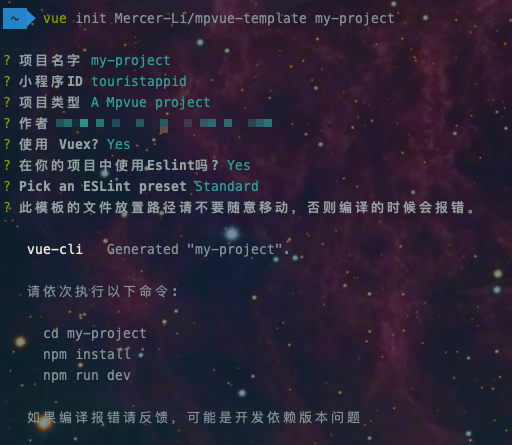
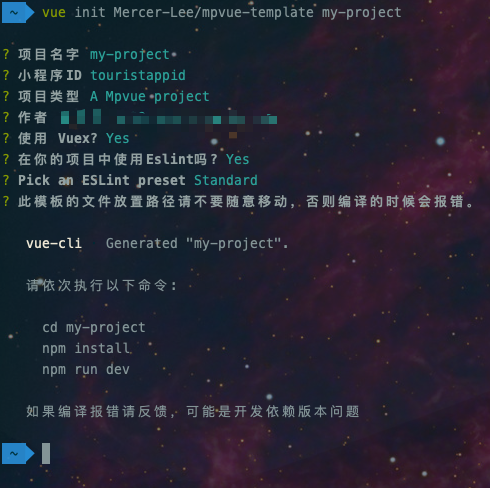
更改仓库名字

diff --git a/README.md b/README.md
@@ -8,7 +8,7 @@
 
 如果没有什么特殊配置，一路无脑回车就行，然后依次执行命令
 <div align=center>
-   <img src="https://github.com/Mercer-Li/mpvue-template/blob/master/docs/image/init.png"/>
+   <img src="https://github.com/Mercer-Lee/mpvue-template/blob/master/docs/image/init.png"/>
 </div>
 
 
